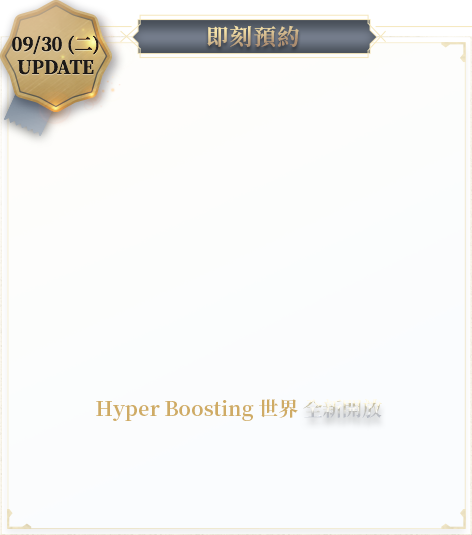
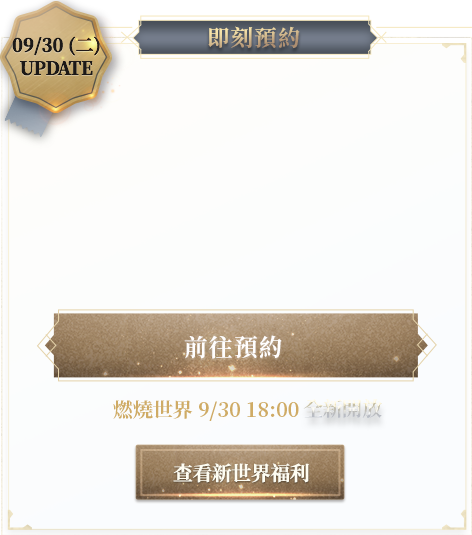
2025/09/02 version4

diff --git a/css/mb_page.css b/css/mb_page.css
@@ -40,40 +40,48 @@
     background-image: url(../img/mo/block-left_m.png);
     width: 661px;
     height: 647px;
-    display: flex;
-    flex-direction: column;
-    justify-content: center;
-    align-items: flex-start;
+    display: block;
   }
 
   .phone-input-container {
-    margin-left: 141px;
+    margin: 0px;
+    left: 96px;
+    top: 224px;
+    position: relative;
   }
 
   .agreement {
-    margin-left: 141px;
+    margin: 0px;
+    left: 96px;
+    top: 244px;
+    position: relative;
   }
 
   section .area__content ._content ._item_left .btn_left {
-    margin-left: 141px;
+    margin: 0px;
+    top: 289px;
+    width: 500px;
+    left: 96px;
   }
 
   section .area__content ._content ._item_left .btn_left_down {
-    margin-left: 240px;
-    margin-top: 100px;
-    margin-bottom: -170px;
+    margin: 0px;
+    position: relative;
+    top: 354px;
+    width: 277px;
+    left: 204px;
   }
 
   section .area__content ._content ._item_right .btn_up {
-    width: 281px;
-    left: 204px;
-    top: 475px;
+    width: 259px;
+    left: 212px;
+    top: 500px;
   }
 
   section .area__content ._content ._item_right .btn_down {
-    width: 281px;
-    left: -81px;
-    top: 1055px;
+    width: 257px;
+    left: -49px;
+    top: 1043px;
   }
 }
 
@@ -103,9 +111,9 @@
   }
 
   .phone-input-container {
-    margin-left: 30px;
     width: 258.5px;
-    margin-top: -25px;
+    left: 32px;
+    top: 85px;
   }
 
   .phone-input-container select {
@@ -123,23 +131,20 @@
 
   .agreement {
     font-size: 15px;
-    margin-left: 30px;
+    left: 32px;
+    top: 100px;
   }
 
   section .area__content ._content ._item_left .btn_left {
-    margin-left: 30px;
-    width: 200.25px;
-    height: 36px;
-    margin-left: 75px;
-    margin-top: 10px;
+    width: 250.6px;
+    left: 48px;
+    top: 117px;
   }
 
   section .area__content ._content ._item_left .btn_left_down {
-    margin-left: 120px;
-    margin-top: 40px;
-    margin-bottom: -90px;
-    width: 107px;
-    height: 30px;
+    width: 139px;
+    left: 102px;
+    top: 146px;
   }
 
   section .area__content ._content ._item_right .btn_up {

diff --git a/css/pc_page.css b/css/pc_page.css
@@ -196,10 +196,10 @@
         background-repeat: no-repeat;
         background-size: contain;
         width: 400.5px;
-        height: 72px;
+        aspect-ratio: 89 / 16;
         position: relative;
-        margin-left: 30px;
-        margin-top: 30px;
+        margin-left: 37px;
+        margin-top: 58px;
     }
 
     section .area__content ._content ._item_left .btn_left:hover {
@@ -212,11 +212,11 @@
         background-repeat: no-repeat;
         background-size: contain;
         width: 214px;
-        height: 60px;
+        aspect-ratio: 107 / 30;
         position: relative;
-        margin-left: 129px;
-        margin-top: 90px;
-        margin-bottom: -140px;
+        margin-left: 133px;
+        margin-top: 63px;
+        margin-bottom: -137px;
     }
 
     section .area__content ._content ._item_left .btn_left_down:hover {
